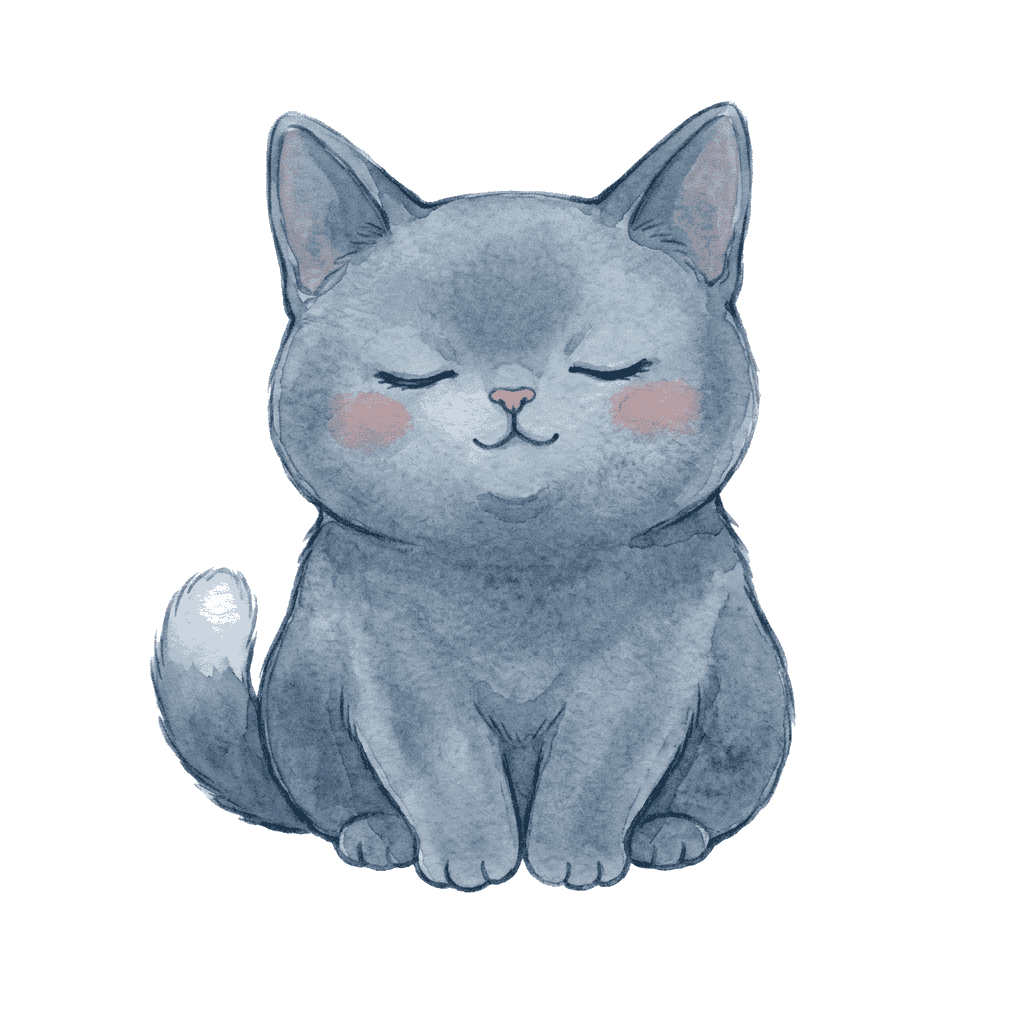
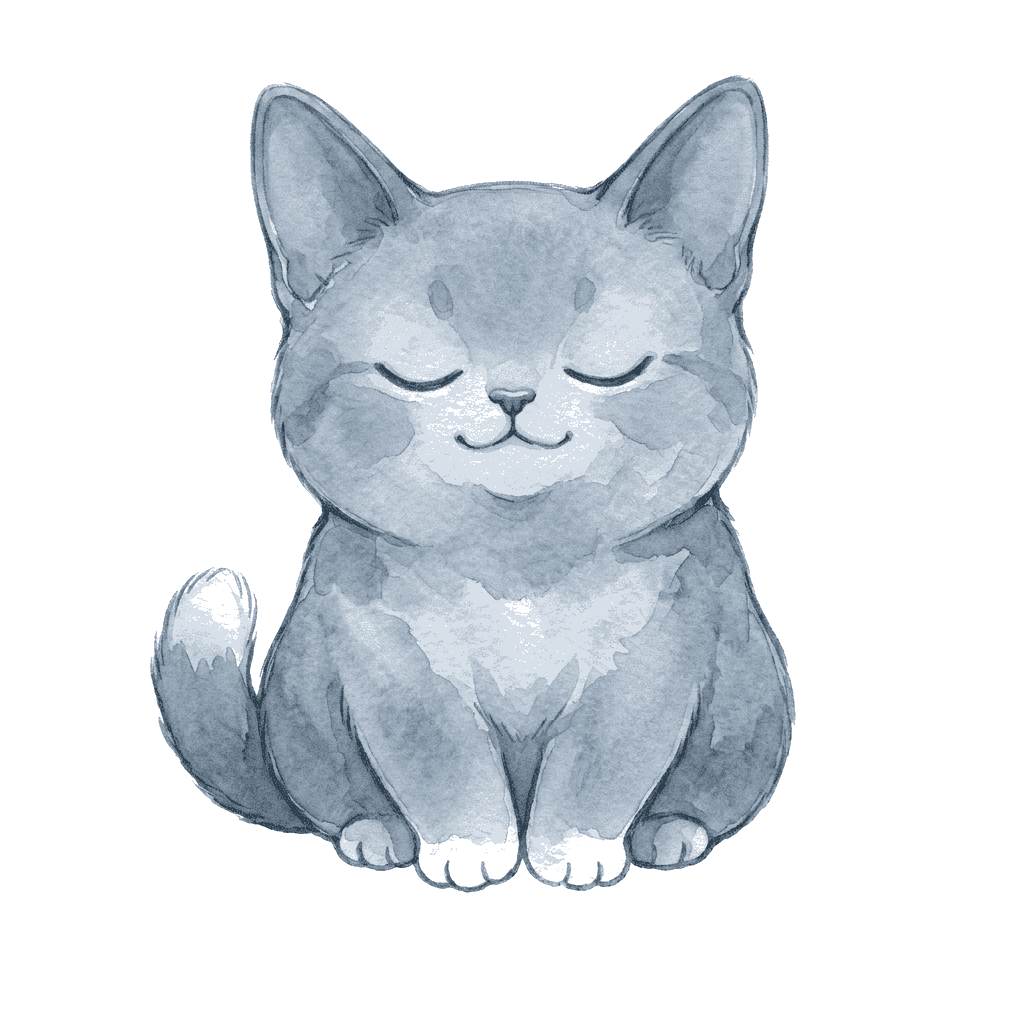
fix(piano-pet): しろ・ぐれー猫を mood 間で同一個体に統一（#199）
猫スタイル切替（#190）で、しろ・ぐれーが mood（happy/sleep/love/hiss）
切替時に色味・耳・模様が変わり別猫に見えていた不整合を解消。
各スタイルの idle を基準に、非idleの24枚を Antigravity で再生成。

- しろ: 線の色温度・ほっぺ色・耳内側・水彩タッチを idle に統一
  （happyの暖色化・hissの写実化を解消）
- ぐれー: 白靴下＋白尻尾の先を全moodで維持、地色の色温度を統一
  （happy/hissの白欠落、low/mid loveのスリム成猫体型→丸ちびに修正）
- tora は変更なし（整合基準）
- アセット差し替えに伴い gen-sw 再生成（sw.js / index.html ?v=）

整合性は ClaudeCode・Antigravity 双方で目視チェック済み。

Changed region(s): [[0.1562, 0.0625, 0.7812, 0.875]]

diff --git a/apps/piano-pet/index.html b/apps/piano-pet/index.html
@@ -8,8 +8,8 @@
   <link rel="manifest" href="manifest.json">
   <link rel="icon" type="image/svg+xml" href="icons/icon.svg">
   <link rel="apple-touch-icon" href="icons/icon.svg">
-  <link rel="stylesheet" href="css/style.css?v=d0476ba1">
-  <link rel="stylesheet" href="css/cat.css?v=d0476ba1">
+  <link rel="stylesheet" href="css/style.css?v=c0e781be">
+  <link rel="stylesheet" href="css/cat.css?v=c0e781be">
   <link href="https://fonts.googleapis.com/css2?family=Mochiy+Pop+One&family=Noto+Sans+JP:wght@400;500;700&display=swap" rel="stylesheet">
 </head>
 <body>
@@ -450,6 +450,6 @@
 
   </div>
 
-  <script type="module" src="js/app.js?v=d0476ba1"></script>
+  <script type="module" src="js/app.js?v=c0e781be"></script>
 </body>
 </html>

diff --git a/apps/piano-pet/sw.js b/apps/piano-pet/sw.js
@@ -1,14 +1,14 @@
 // ===== Service Worker（ネットワーク優先＋オフラインフォールバック） =====
-const CACHE = 'piano-pet-d0476ba1';
+const CACHE = 'piano-pet-c0e781be';
 
 const APP_SHELL = [
   './',
   './index.html',
-  './css/cat.css?v=d0476ba1',
-  './css/style.css?v=d0476ba1',
+  './css/cat.css?v=c0e781be',
+  './css/style.css?v=c0e781be',
   './js/account.js',
   './js/analytics.js',
-  './js/app.js?v=d0476ba1',
+  './js/app.js?v=c0e781be',
   './js/assignment.js',
   './js/backup.js',
   './js/badges.js',
